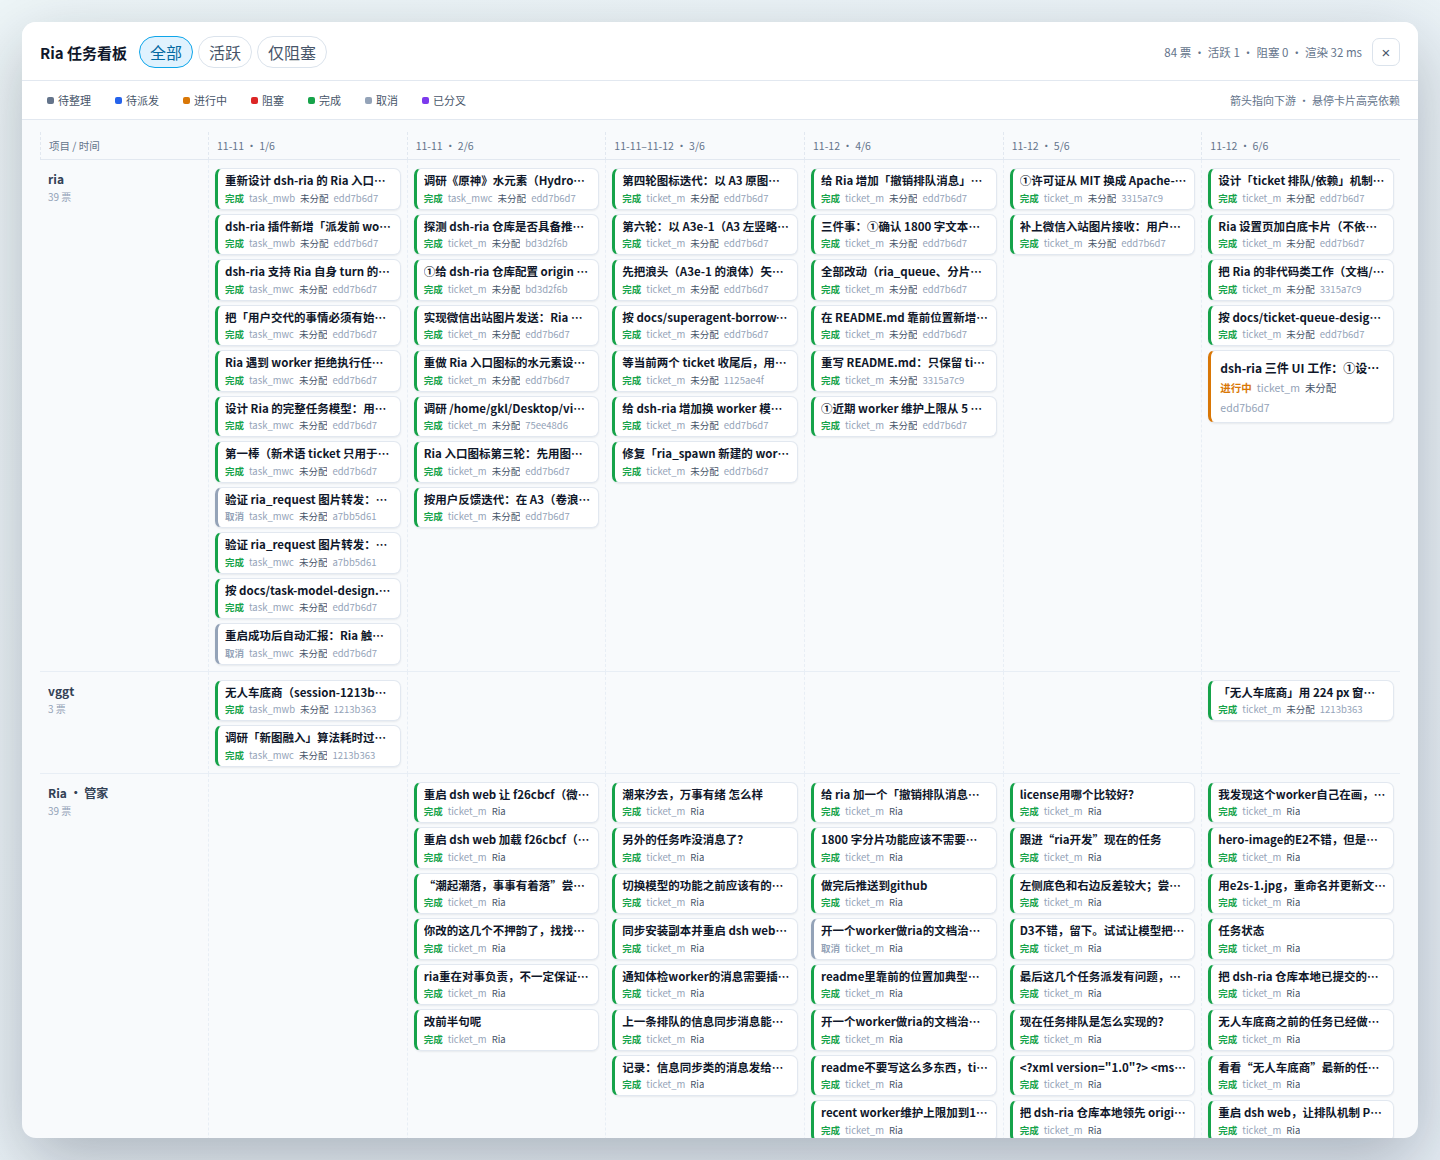
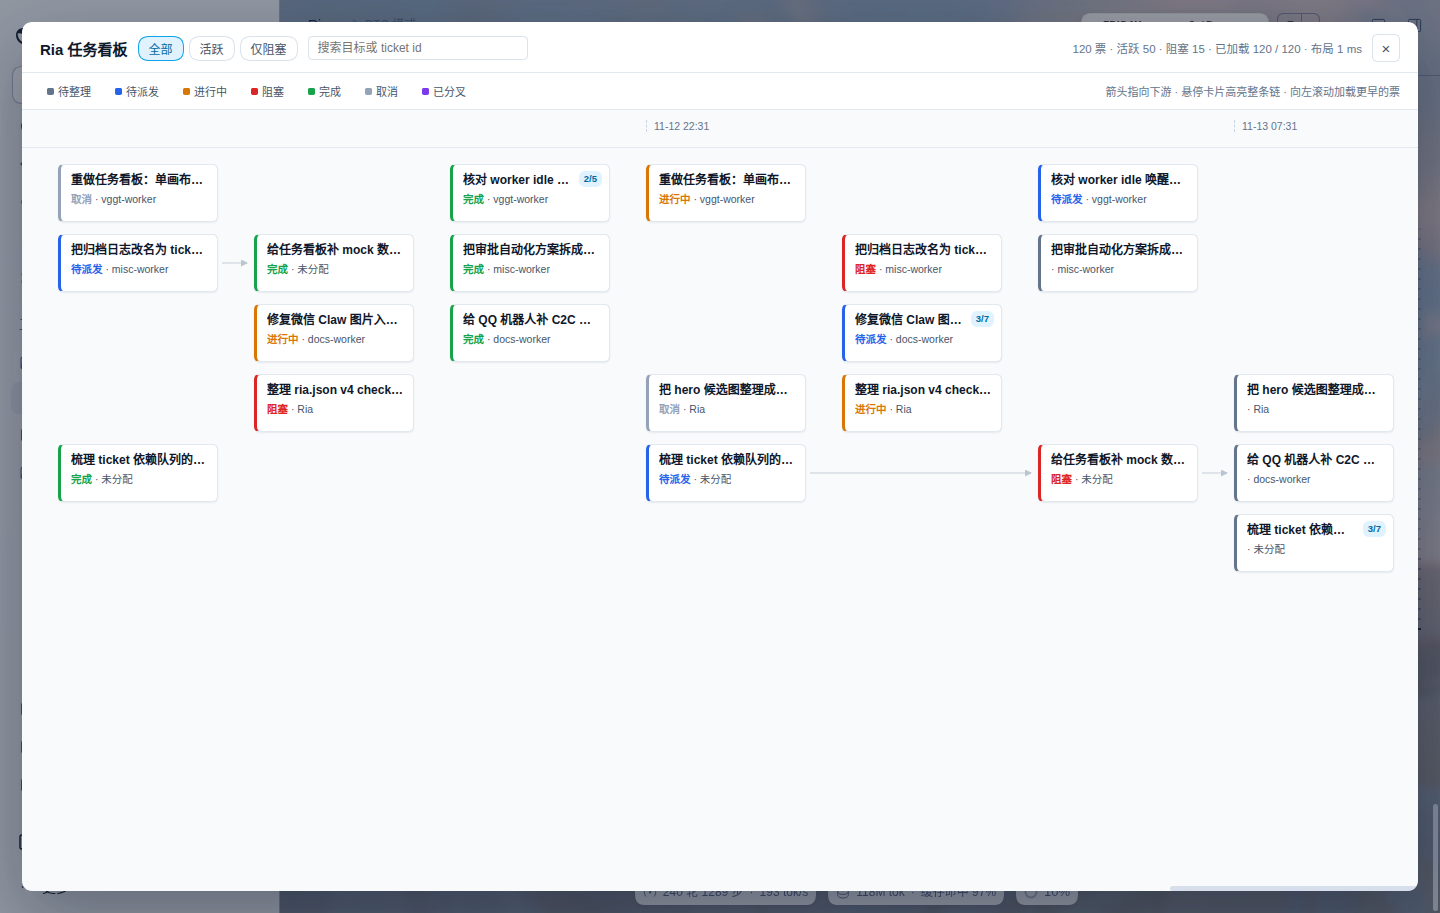
docs: document the rebuilt ticket board
Describe the single-canvas layout, 60-ticket pagination, hover chain and tooltip, and the limit/before board API. Refresh the mock screenshots.

diff --git a/docs/board-preview.md b/docs/board-preview.md
@@ -1,33 +1,40 @@
 # 任务看板预览
 
-![Ria 任务看板，真实 84 票](assets/ria-board-preview.png)
+![Ria 任务看板](assets/ria-board-preview.png)
 
-预览图基于本机真实状态 `DSH_HOME/state/ria/ria.json` 的 84 张 ticket：80 done、3 cancelled、1 working，0 张有依赖。按 executor 会话的 cwd 聚合出 5 条泳道（`ria`、`vggt`、`Ria · 管家`、`misc`、`session`），其中 `self` 与当前 Ria 会话归入「Ria · 管家」，找不到会话的 worker 进「未分配」。截图尺寸 1440×1160，浏览器内从数据加载到卡片与箭头布局完成约 31 ms。
+看板是只读的全屏浮层，不写 ticket、不派发消息。截图 1440×913，使用 mock 的 120 张 ticket 驱动真实 DSH Web shell 与工作区里的 `lib/client.js`，覆盖 5 条工作区泳道、依赖链、清单进度和各种状态；不是本机 ria.json 的实时投影。
 
-## 为什么用静态 harness
+## 布局
 
-截图时 `~/.dsh/profiles/web/node_modules/dsh-ria` 仍是旧拷贝，而任务约束不重启 dsh web、不同步安装副本，所以无法从正在运行的 Web UI 点开新看板。预览使用与 `lib/client.js` 相同的 DOM 结构、配色、分位时间桶和 SVG 依赖路径逻辑，数据由真实 `ria.json` 投影而来；它只用于视觉验收，不是生产页面。
+- 单画布：横轴按 `createdAt` 排序，每 3 张卡一列；有依赖的列整体右移，列内按泳道排序，再按上游行中位数做 3 轮对齐。
+- 纵轴按 worker 所属 workspace 分道；`self` 与 Ria 归入「Ria · 管家」，找不到会话的 worker 进「未分配」。泳道按活跃票数、最近活动排序。
+- 卡片 160×58：第一行是去掉空白与首句、最多 22 字的 goal 摘要，第二行是「状态 · 执行者」，右上角是清单进度（如 3/7），不再显示 ticket 短 id。
+- 依赖用 cubic SVG 箭头从上游指向下游；悬停卡片时整条上下游链高亮，其余卡片与边淡出，并弹出完整信息浮层（goal、状态/waitingOn、执行者与 sessionId、创建/关闭时间与历时、依赖/被依赖数、清单进度、排队原因）。
+- 顶部有搜索框和全部/活跃/仅阻塞筛选；图例可高亮状态。默认加载最新 60 张并停在最右；向左滚到距左缘 180px 时自动按 `before` 加载更早的 60 张，加载后保持视口位置。
 
-## 复现真实页面
+## 数据与复现
 
-1. 同步安装副本并重启 dsh web（重启前先征得同意）：
+端点：
 
-   ~~~bash
-   cp -a lib/. ~/.dsh/profiles/web/node_modules/dsh-ria/lib/
-   dsh-daemon restart
-   ~~~
+~~~bash
+curl -s "http://127.0.0.1:3080/plugins/dsh-ria/api/board?limit=60"
+~~~
 
-2. 展开侧栏，点 Ria 入口右侧的「▦ 看板」图标（顺序：Ria 入口 | 看板 | 设置 | 连接）。看板数据可直接检查：
+返回 `counts`、`page:{limit,before,returned,total,hasMore,nextBefore}`、`lanes` 和 `tickets`；每张票带 `dependentCount`、`archived`、`progress` 等字段。`before` 是上一页最旧一张的 `createdAt`，服务端合并热存与归档日志后按 `createdAt` 升序取最后 `limit` 张，所以首屏总是最新的一批。
 
-   ~~~bash
-   curl -s http://127.0.0.1:3080/plugins/dsh-ria/api/board | head -c 400
-   ~~~
+在真实 Web UI 查看：先同步安装副本并重启 dsh web（重启前先征得同意），展开侧栏，点 Ria 入口右侧的「▦ 看板」（顺序：Ria 入口 | 看板 | 设置 | 连接）。
 
-3. 端点返回 `ok/counts/lanes/tickets`；页面本身只读，不写 ticket、不派发消息。
+~~~bash
+cp -a lib/. ~/.dsh/profiles/web/node_modules/dsh-ria/lib/
+dsh-daemon restart
+~~~
+
+截图 `assets/ria-board-tooltip.png` 是悬停 `ticket_mock_104` 时的完整信息浮层与链高亮。
 
 ## 已覆盖的边界
 
 - 没有 ticket、筛选后为空、worker 会话缺失、worker 已归档、workspace registry 读取失败。
-- 无依赖的票不画箭头；有依赖时箭头只在上游/下游卡片悬停时高亮。
-- 已完成/已取消的票折叠为两行，避免大量历史把活跃泳道挤出首屏。
-- 横向不是真实时间比例，而是按创建时间排序后的 6 个等分位桶，标签注明 `日期 · n/6`。
+- 无依赖的票不画箭头；有依赖时只高亮整条相关链。
+- 热存与归档日志合并；归档票带 `archived:true`，不会因为不在热存里而从看板消失。
+- 分页去重、加载更早失败提示、没有更早数据时停止请求。
+- 120 张 mock 票实测：画布宽 7852px，默认 `scrollLeft` 等于最大滚动值，布局约 1ms；仅阻塞筛选 15 张，搜索无结果显示空状态。

diff --git a/docs/state-and-api.md b/docs/state-and-api.md
@@ -27,7 +27,7 @@ DSH_HOME/state/ria/
 - GET /state：riaSessionId、tickets、pendingDeliveries、grants、settings、workerIdleNotifications（enabled/throttleMs）。
 - GET/POST /settings：读取或设置 {dispatchGuard:boolean, wechatAutoPause:boolean}（GET 还返回 progressCards）；POST 可只传其中一个，传了非布尔值或一个都没传返回 400。
 - GET /dispatch-notes?sessionId&turn：读取 Ria 的派发 note；sessionId 必须是当前 Ria，turn 可选且必须是非负整数；返回 {notes}。
-- GET /board：只读任务看板数据。返回 {ok, generatedAt, riaSessionId, counts:{total,active,terminal,blocked}, lanes, tickets}；tickets 含 ticketId/goal/status/waitingOn/blockedReason/dependsOn/executor/executorTitle/executorCwd/executorArchived/executorMissing/laneId/laneLabel/createdAt/updatedAt/closedAt/readyAt/queueState/queueText。executor 为 `self` 或当前 Ria 时归入「Ria · 管家」；worker session 缺失或已归档只降级标道，不返回错误。
+- GET /board?limit=60&before=<createdAt>：只读任务看板数据。limit 默认 60、范围 1–200，before 是上一页最旧一张的 createdAt；服务端合并热存与归档日志后按 createdAt 升序取最后 limit 张。返回 {ok, generatedAt, riaSessionId, counts:{total,active,terminal,blocked}, page:{limit,before,returned,total,hasMore,nextBefore}, lanes, tickets}；tickets 含 ticketId/goal/status/waitingOn/blockedReason/attention/dependsOn/dependentCount/checklist/progress/executor/executorTitle/executorCwd/executorArchived/executorMissing/archived/laneId/laneLabel/createdAt/updatedAt/closedAt/readyAt/queueState/queueText。executor 为 `self` 或当前 Ria 时归入「Ria · 管家」；worker session 缺失或已归档只降级标道，不返回错误；归档票带 archived=true。limit 非法或 before 不是时间戳时返回 400。
 - GET /health：健康检查。
 - GET /wechat/status：微信登录和连接状态，含 paused/pausedBy/pauseReason/pausedAt/resumedAt/resumedBy 和 wechatAutoPause。
 - POST /wechat/login：获取登录二维码。
